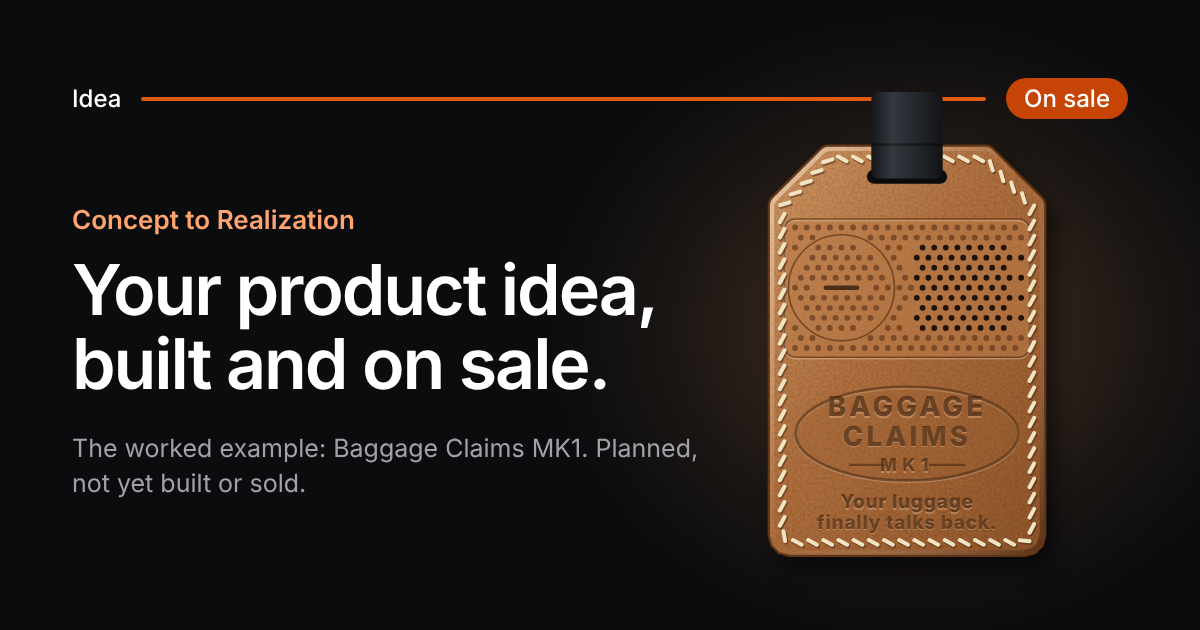
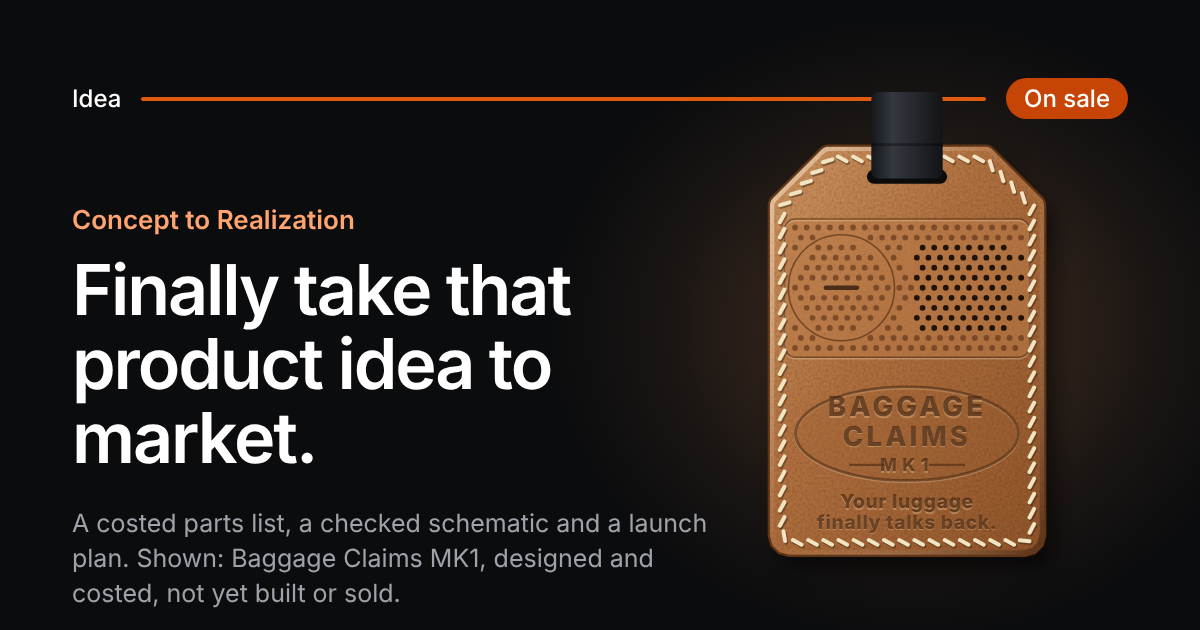
Welcome page copy, second version: sell the process, the example is the proof
The owner asked (23 Nov) for copy that sells the full process to a first-time
visitor. Words only: blocks, ids, anchors, data-track values, forms and viewers
are unchanged.

- Hero: "Finally take that product idea to market." with a subhead that names
  what you get, the control, and the one real speed proof (one weekend).
- Each block opens with the visitor's question and answers it first.
- Proof: the weekend story with the example's live part and wire counts, and
  the bad news the costing gave (every channel loses at prototype cost).
- The line under every form: no payment, and what happens next.
- "Workbench" becomes "the app" on the page. Meta, social card and og.png redone.
- Tests: the two headings the e2e spec names; the proof lead joins the banned-word check.

Claude-Session: https://claude.ai/code/session_01PAzAzb9LggakEVmwjQHoa6

diff --git a/src/components/welcome/content.ts b/src/components/welcome/content.ts
@@ -4,7 +4,9 @@
  * repository: no user counts, no benchmarks, no time savings.
  *
  * The welcome page is the early-access page (owner, 22 Nov): one action, "Claim an early-access place", nine
- * blocks, and nothing about running the software yourself. Its words are HERO, PROBLEM, GET, MECHANISM, PROOF,
+ * blocks, and nothing about running the software yourself. The words were rewritten on 23 Nov (owner: sell the full
+ * process, the example is only the proof; docs/research/landing/copy-v2-2026-11-23.md): each block opens with the
+ * visitor's question and answers it in its first sentence. Its words are HERO, PROBLEM, GET, MECHANISM, PROOF,
  * PRICING, BUILDER, questions(), CLOSING and FOOTER. The plans and their prices are the plan catalogue's
  * (src/lib/admin/planSchema.ts), never typed here.
  */
@@ -16,20 +18,20 @@ export const ACTION = { label: "Claim an early-access place", short: "Early acce
 
 export const HERO = {
   eyebrow: "For makers, first-time founders and small product firms",
-  title: "Your product idea, built and on sale.",
-  sub: "One workbench carries a physical product from a one-line idea to a costed prototype, a launch plan and a marketplace listing. AI drafts each stage from the last. You decide what stands.",
+  title: "Finally take that product idea to market.",
+  sub: "Type the idea in one line. Get a costed parts list, a checked schematic, your margin on each sales channel and a launch plan. AI drafts every stage and you approve it, so you know the numbers before you spend a dollar. Our first idea got that far in one weekend.",
   secondary: "See the worked example",
 };
 
 export const META = {
-  title: "Concept to Realization: take a product idea to a prototype, a launch and a listing",
+  title: "Concept to Realization: take your product idea to market",
   description:
-    "One workbench for makers, first-time founders and small product firms: AI drafts each stage from the last, from brief to parts list, print files, unit cost, ads and a marketplace listing, and you decide. Early access is limited to 50 places.",
+    "Type a product idea in one line. Get a costed parts list, a checked schematic, your margin by sales channel and a launch plan. 50 early-access places, no payment.",
 };
 
 /** The problem, as before and after pairs. The "after" side is what the app does, word for word from the guides. */
 export const PROBLEM = {
-  title: "One product, ten tools that never talk to each other",
+  title: "Why is the idea still in the drawer?",
   before: "Elsewhere",
   after: "Here",
   /** the pairs the welcome page shows, by index */
@@ -37,23 +39,27 @@ export const PROBLEM = {
   /** the tools the lead names, as the block's picture shows them */
   tools: ["Notes app", "Parts spreadsheet", "CAD file", "Schematic tool", "Slicer", "Cost sheet", "Task board", "Ad manager"],
   art: "Elsewhere: a notes app, a parts spreadsheet, a CAD file, a schematic tool, a slicer, a cost sheet, a task board and an ad manager, each on its own. Here: one line from the idea to the sale, with the seven stages on it.",
-  lead: "A hardware idea usually lives in a notes app, a parts spreadsheet, a CAD file, a schematic tool, a slicer, a cost sheet, a task board and an ad manager. Change one part and the wiring, the enclosure, the cost and the launch copy go stale without telling you.",
+  lead: "Because nothing shows you the way from here to a product. The idea lives in a notes app, a parts spreadsheet, a drawing tool and a dozen browser tabs. None of them says what it would cost to make, or whether it would earn money. So you spend first and find out later, or you wait.",
   pairs: [
     {
-      before: "The parts list is a spreadsheet nothing else reads.",
-      after: "The parts list drives the schematic, the 3D model, the enclosure, the build sheet and the unit cost.",
+      before: "You find out what it costs after you have paid for it.",
+      after: "You see the unit cost at each batch size, and what each sales channel leaves you, before you order a part.",
     },
     {
       before: "A guessed price quietly becomes a fact.",
       after: "A part with no price is named and left out of the total. It is never counted as zero.",
     },
     {
-      before: "You find out what a change broke when the build fails.",
-      after: "Change a part, a requirement or a decision and a notice lists the rows it affects.",
+      before: "You learn what a change broke when the build fails.",
+      after: "Change a part, a requirement or a decision and a notice lists everything that depends on it.",
     },
     {
       before: "An AI tool writes confident copy with numbers nobody checked.",
-      after: "A marketing line with a number or a word like \"best\" needs a linked proof row before it can be approved.",
+      after: "Every claim is listed with its source and marked verified or unverified. An ad line with a number needs proof before you can approve it.",
+    },
+    {
+      before: "The parts list is a spreadsheet nothing else reads.",
+      after: "The parts list drives the schematic, the 3D model, the enclosure, the build sheet and the unit cost.",
     },
     {
       before: "Nobody can say what to do next.",
@@ -146,8 +152,8 @@ export const FEATURES: Feature[] = [
 ];
 
 export const CLOSING = {
-  title: "Ready to get your idea out?",
-  text: "An idea that is not pursued is never realised. Put yours through the same stages as the example: AI drafts, you decide, and the next step is always named.",
+  title: "What would your idea cost to make?",
+  text: "Find out before you spend on it. Claim one of the 50 early-access places with an email address and one line about what you want to make. You get the same seven stages our own idea went through, and the numbers for yours.",
 };
 
 export const FOOTER = {
@@ -178,6 +184,13 @@ export const EXAMPLE = {
   solderSteps: 20,
   build: "7 h 10 min",
   voicePacks: ["Family", "Salty", "New Yorker"],
+  /**
+   * What the example's economics said, as the cost view of "What you get" works it out from the Rev D rows
+   * (seed/concepts/baggage-claims/content/2026-11-22-revD-2.json: $30.01 for one unit, $17.67 a unit at 100, parts
+   * and filament only) against the channels' nets (src/lib/seed.ts: own site $21.95, wholesale $14.50; the dearest
+   * net of the five, $21.95, is under $30.01). $21.95 - $17.67 = $4.28; $17.67 - $14.50 = $3.17. Estimates, as the rows say.
+   */
+  badNews: { costAtOne: "$30.01", ownSiteLeaves: "$4" },
 } as const;
 
 /**
@@ -189,14 +202,14 @@ export const ENGINEERING = {
   title: "Make it: the engineering views",
   tabs: { model: "3D", schematic: "Schematic", layout: "Physical layout", enclosure: "Enclosure and print", bom: "Parts list", build: "Build sheet" },
   loading: "Loading the view",
-  badge: "Live views, in the workbench's dark theme",
+  badge: "Live views, in the app's dark theme",
   still: "A still of the 3D view; the live one loads as you reach it.",
   noscript: "Script is off, so the views cannot run. Here are stills of the schematic and the enclosure, the whole parts list and the first soldering steps.",
   hintMouse: "Drag to turn. Ctrl or Cmd + wheel to zoom.",
   hintTouch: "Tap, then drag to turn. Pinch to zoom.",
   tap: "Tap to explore",
   panTouch: "Tap, then drag to pan. Pinch or the buttons zoom.",
-  note: "As the workbench says of this example, the internal layout is illustrative, and sizes marked typical are common sizes for that kind of part, not measured.",
+  note: "As the app says of this example, the internal layout is illustrative, and sizes marked typical are common sizes for that kind of part, not measured.",
   model: {
     modes: { translucent: "Translucent", solid: "Solid", wireframe: "Wireframe", exploded: "Exploded" },
     wiresHidden: "The solid lid is closed, so the wires and the labels of the parts inside are not drawn.",
@@ -234,7 +247,7 @@ export const ENGINEERING = {
   build: {
     heading: "The first soldering steps",
     hint: "The order to solder in, from the schematic's wires.",
-    more: (n: number) => `And ${n} more, in the same order, on the build sheet in the workbench.`,
+    more: (n: number) => `And ${n} more, in the same order, on the build sheet in the app.`,
   },
 };
 
@@ -280,17 +293,17 @@ export const HERO_STAGE = {
     variants: (n: number) => `1 of ${n} variants`,
     net: (net: string) => `${net} net of fees`,
   },
-  caption: `The worked example: ${EXAMPLE.name}, shown in its own rows as they stand today. It is planned, not yet built or sold.`,
+  caption: `The worked example: ${EXAMPLE.name}, shown in its own rows as they stand today. It is designed and costed, not yet built or sold.`,
 };
 
 /** "What you get": the thing you walk away with at each stage. Every line is a section of the app today (src/lib/menu.ts). */
 export const GET = {
   eyebrow: "What you get",
   title: "What do I end up with?",
-  lead: "Something you can use at the end of each of seven stages: a working document, a file or a figure. The next stage is built on it. Pick a stage to see what it leaves you with.",
+  lead: "Something you can use at the end of every stage. Seven stages leave you a brief, sourced answers, a costed parts list, print files, your margin on each channel, ads and a marketplace listing. Each is built from the one before. Pick a stage to see it.",
   note: `Each output shown is one of ${EXAMPLE.name}'s own rows, the example this page follows.`,
   label: "The seven stages, in two lanes",
-  holds: "In the workbench this stage holds",
+  holds: "In the app this stage holds",
   more: (n: number) => `and ${n} more`,
   see: { engineering: "See it running below", market: "See it open below" },
   groups: [
@@ -310,7 +323,7 @@ export const GET = {
       title: "Sell it",
       sub: "From a unit cost to a listing",
       items: [
-        { n: "05", stage: "Production", art: "cost", get: "A unit cost and a margin per channel", also: "Batch plans with the cash each needs, suppliers, and a compliance checklist for your own checking." },
+        { n: "05", stage: "Production", art: "cost", get: "Your unit cost, and your margin on each channel", also: "Batch plans with the cash each needs, suppliers, and a compliance checklist for your own checking." },
         { n: "06", stage: "Marketing", art: "ad", get: "Ads written to each channel's limits", also: "Positioning with its proof, a brand kit, a landing page, social posts and a dated launch plan." },
         { n: "07", stage: "Sales", art: "channel", get: "A listing ready for the marketplace", also: "Channels with their fees, reviews turned into requirements, and a sales monitor." },
       ],
@@ -477,12 +490,12 @@ export const GET_VIEWS = {
  * saving, percentage or "faster" is claimed, because none has been measured.
  */
 export const MECHANISM = {
-  title: "AI drafts each stage. You approve it. The next stage starts from there.",
+  title: "How does it work? Three steps, seven times: AI drafts a stage, you approve it, the next stage starts from there.",
   guarantees: [
-    { title: "Publishing and spending wait for you", text: "A post, a message or a purchase goes out only when you confirm it in the app. The app places no orders." },
-    { title: "Numbers come from your rows", text: "A missing price is named and left out of the total. Print time and material come from the slicer's own output." },
-    { title: "Claims need proof", text: "A marketing line with a number or a superlative needs a linked proof row before it can be approved." },
-    { title: "Changes are recorded", text: "Each concept keeps its activity, and the audit log is read only." },
+    { title: "Nothing is posted or bought without you", text: "A post, a message or a purchase goes out only when you confirm it in the app. The app places no orders." },
+    { title: "No number is made up", text: "A missing price is named and left out of the total. Print time and material come from the slicer's own output." },
+    { title: "Every claim shows its source", text: "Each claim is listed with where it came from and marked verified or unverified. An ad line with a number or a superlative needs linked proof before you can approve it." },
+    { title: "You see what a change touches", text: "Change a part, a requirement or a decision and a notice lists everything that depends on it. Every change is kept in a read-only log." },
   ],
 };
 
@@ -493,18 +506,20 @@ export const MECHANISM = {
  */
 export const PROOF = {
   eyebrow: `The worked example: ${EXAMPLE.name}`,
-  title: "One real product, taken through it",
-  lead: `${EXAMPLE.name} is ${EXAMPLE.what}, and the first idea put through the workbench. These are its own rows in the workbench's own views: the engineering under Make it, marketing and sales under Sell it. Where the example has nothing yet, the view says so.`,
+  title: "Has it worked on a real idea?",
+  /** the counts are the example's own rows, handed in by the page, so the sentence cannot drift from the views under it */
+  lead: (parts: number, wires: number) =>
+    `Yes, on ours. We had a joke idea on the way to an airport: a luggage tag that heckles its trip. Over one weekend, one of us took that line to a costed list of ${parts} parts and a checked ${wires}-wire schematic. Then a 3D model, margins for five sales channels and a launch plan. This app was built to do it. Its own data is below.`,
   switch: "Which half of the example to show",
   groups: {
     make: { label: "Make it", sub: "Six engineering views, live: turn the model, pan the schematic, watch the case print." },
     sell: { label: "Sell it", sub: "Seven marketing and sales views, built on the same rows as the engineering." },
   },
   noscript: "Script is off, so the switch cannot change. The Sell it views are set out below.",
-  enclosureNote: "The 3D view draws the enclosure to the outline of the example's own case, which is designed by hand. Enclosure and print shows the box the workbench generates around the same parts.",
+  enclosureNote: "The 3D view draws the enclosure to the outline of the example's own case, which is designed by hand. Enclosure and print shows the box the app generates around the same parts.",
   status: {
-    title: "Where does the example stand today?",
-    lead: "Each stage ends in a gate of checks. These counts are worked out by the workbench's own rules on the example's rows. It is designed and costed, not yet manufactured or sold.",
+    title: "What did it tell us?",
+    lead: `What we did not want to hear, before we spent a dollar. At prototype cost, ${EXAMPLE.badNews.costAtOne} a unit, all five channels lose money. At 100 units our own site leaves about ${EXAMPLE.badNews.ownSiteLeaves} a unit and wholesale still loses. So the tag is designed and costed, not yet built or sold. Here are its checks, stage by stage.`,
     label: "The seven stages of the example, each with its checks met",
     count: (met: number, total: number) => `${met} of ${total} checks met`,
     open: (n: number) => `What is still open (${n} ${n === 1 ? "check" : "checks"})`,
@@ -527,7 +542,7 @@ export const MARKET = {
   positioning: {
     path: "/s/marketing/positioning",
     lineTitle: "The line",
-    lineHint: "The workbench composes one sentence from six parts. The brackets are the parts the example has not filled.",
+    lineHint: "The app composes one sentence from six parts. The brackets are the parts the example has not filled.",
     notesTitle: "What the example holds",
     messagesTitle: "Three messages, each tied to proof",
     messagesHint: "A message can be approved only when it links to something the concept holds. This is what a link to the example's rows would count as today, by the app's own check.",
@@ -575,7 +590,7 @@ export const MARKET = {
     foot: "Each step is due a set number of days before or after launch day.",
     needs: (gate: string) => `needs the ${gate} gate`,
     steps: (n: number) => `${n} steps`,
-    honest: (launches: number) => (launches === 0 ? `${EXAMPLE.name} has no launch date yet, so no step has a due date. Set one in the workbench and every step is dated, counted back from it. Move the date and every step moves.` : `${EXAMPLE.name} has ${launches} launch planned.`),
+    honest: (launches: number) => (launches === 0 ? `${EXAMPLE.name} has no launch date yet, so no step has a due date. Set one in the app and every step is dated, counted back from it. Move the date and every step moves.` : `${EXAMPLE.name} has ${launches} launch planned.`),
   },
   listing: {
     path: "/s/sales/listing",
@@ -606,15 +621,15 @@ export const MARKET = {
 export const PRICING = {
   eyebrow: "Pricing",
   title: "What does it cost?",
-  lead: "Early access is limited to 50 people and takes no payment.",
-  plansLead: "After those places are gone, the workbench is by monthly subscription, on one of the plans below.",
+  lead: "Nothing is charged during early access, and no card is asked for. There are 50 places.",
+  plansLead: "After those are gone it is a monthly subscription, on one of the two plans below.",
   offerTitle: "Early access: 50 places",
-  offerText: "Give an email address and one line about what you want to make. The count beside the form is the real number of places left.",
+  offerText: "Give an email address and one line about what you want to make. Workspaces open in the order places were claimed. The count beside the form is the real number of places left.",
   plansTitle: "After early access",
   includes: "Includes",
   per: "a month",
   first: "Early-access members are asked first when paid plans open.",
-  questionsTitle: "What else should I ask?",
+  questionsTitle: "What might stop you?",
 };
 
 /** "Who built it": shown only when the setting BUILDER.setting holds a name and a text (builder.ts). */
@@ -632,29 +647,29 @@ type Question = { q: string; a: string };
  */
 export function questions(plans: { name: string; price: string; per: string }[]): Question[] {
   const prices = plans.map((p) => `${p.name} at ${p.price} ${p.per}`).join(" and ");
-  const then = prices ? ` After the 50 early-access places, the workbench is by subscription: ${prices}.` : "";
+  const then = prices ? ` After the 50 early-access places it is a subscription: ${prices}.` : "";
   return [
-    { q: "What does it cost?", a: `Early access takes no payment.${then} ${PRICING.first}` },
+    { q: "What does it cost?", a: `Nothing during early access, and no card is asked for.${then} ${PRICING.first}` },
     {
-      q: "What is early access, and why 50?",
-      a: `Early access is a place among the first 50 people to put an idea of their own through the workbench. You claim one with an email address and one line about what you want to make. Fifty is a fixed limit, and the count on this page is the real number of places left.${prices ? " When they are gone, the way in is a paid plan." : ""}`,
+      q: "Is the limit of 50 real?",
+      a: `Yes. Fifty is a fixed limit, and the count on this page is read from our database each time the page loads. A place puts you among the first 50 people to take an idea of their own through the seven stages. When the places are gone the form becomes a waiting list${prices ? ", and the way in is a paid plan" : ""}.`,
     },
     { q: "Who can see my idea?", a: "Your ideas are kept in your own workspace and are not shared with others." },
     {
-      q: "Do I need electronics or CAD skills?",
-      a: "No CAD skills: parts are drawn as boxes and cylinders from the sizes you enter, or from an STL or STEP file you attach, and the enclosure is generated around them. Some electronics knowledge helps, because you approve every draft and build the prototype yourself. The electrical checks list what they find, worst first, and the build sheet gives the order to solder in.",
+      q: "I am not an engineer. Can I still use it?",
+      a: "For the drawing, yes. Parts are drawn from the sizes you enter, or from an STL or STEP file, and the enclosure is generated around them, so you need no CAD skills. For electronics, some knowledge helps: you approve every draft and you build the prototype yourself. The electrical checks list what they find, worst first, and the build sheet gives the order to solder in.",
     },
     {
-      q: "Is it only for electronics?",
-      a: "No. A concept is one of three kinds: electronics in an enclosure, a printed part, or a physical product with no electronics. The sections that do not apply, such as the schematic for a printed part, are hidden.",
+      q: "My product has no electronics. Is this for me?",
+      a: "Yes. A concept is one of three kinds: electronics in an enclosure, a printed part, or a physical product with no electronics. The sections that do not apply, such as the schematic for a printed part, are hidden.",
     },
     {
-      q: "Does the AI make things up?",
-      a: "It drafts, and a draft counts for nothing until you approve it. Every draft is kept with the rows it came from. A part with no price is named and left out of the total, never counted as zero. A marketing line with a number or a superlative needs a linked proof row before it can be approved.",
+      q: "Can I trust what the AI writes?",
+      a: "Trust it as a draft, never as a fact. A draft counts for nothing until you approve it. Every claim is listed with its source and marked verified or unverified. A part with no price is named and left out of the total, never counted as zero. On our own idea it showed that every channel lost money at prototype cost.",
     },
     {
       q: "What is not finished yet?",
-      a: `Connections to outside services (Amazon, X, Instagram and printers) are built to each service's published documentation and tested against stand-ins; they have not yet been run on live accounts. Team workspaces open after early access. The worked example, ${EXAMPLE.name}, is designed and costed, not yet manufactured or sold.`,
+      a: `Connections to outside services (Amazon, X, Instagram and printers) are built to each service's published documentation and tested against stand-ins; they have not yet been run on live accounts. Team workspaces open after early access. Our own example, ${EXAMPLE.name}, is designed and costed, not yet built or sold. And nobody can promise a product will sell. This shows you the numbers so you can decide.`,
     },
   ];
 }

diff --git a/tests/e2e/signed-out.spec.ts b/tests/e2e/signed-out.spec.ts
@@ -29,7 +29,7 @@ test("the welcome page has one action, early access, in reach from the header, a
   await expect(page).toHaveURL(`${baseURL}/welcome#early-access-hero`);
   // the jump lands on the form itself, clear of the sticky header
   await expect(page.locator("#early-access-hero").getByLabel(/^Email/)).toBeInViewport();
-  await expect(page.getByRole("heading", { level: 1, name: "Your product idea, built and on sale." })).toHaveCount(1);
+  await expect(page.getByRole("heading", { level: 1, name: "Finally take that product idea to market." })).toHaveCount(1);
   for (const track of ["cta:get", "cta:proof", "plan:maker", "plan:studio"]) await expect(page.locator(`a[data-track="${track}"]`)).toHaveText("Claim an early-access place");
   // every action is a link to a form that is on the page
   for (const href of await page.locator('a[href^="#early-access-"]').evaluateAll((as) => as.map((a) => a.getAttribute("href")!))) await expect(page.locator(href)).toHaveCount(1);
@@ -37,7 +37,7 @@ test("the welcome page has one action, early access, in reach from the header, a
   for (const id of ["hero", "origin", "problem", "get", "proof", "pricing", "faq", "close"]) await expect(page.locator(`section#${id}`)).toHaveCount(1);
   await page.getByRole("link", { name: "See the worked example" }).click();
   await expect(page).toHaveURL(`${baseURL}/welcome#proof`);
-  await expect(page.getByRole("heading", { level: 2, name: "One real product, taken through it" })).toBeInViewport();
+  await expect(page.getByRole("heading", { level: 2, name: "Has it worked on a real idea?" })).toBeInViewport();
   // pricing: Maker and Studio, each with a price; no card that costs nothing and none for running it yourself
   const pricing = page.locator("section#pricing");
   await expect(pricing.getByRole("heading", { level: 4 })).toHaveText(["Maker", "Studio"]);

diff --git a/src/app/welcome/page.tsx b/src/app/welcome/page.tsx
@@ -35,7 +35,7 @@ export const generateMetadata = () => publicPageMetadata({ title: META.title, de
  *  0. Header, sticky: the brand, four section links from 1024 px, Sign in, and the action at every width.
  *  1. hero     The proposition, the early-access form (EarlyAccess) and the transformation itself (HeroFlow).
  *  2. origin   Where the first idea came from: the film (OriginScenes), which loads only as it nears the window.
- *  3. problem  One product, ten tools: three before-and-after pairs.
+ *  3. problem  Why the idea is still in the drawer: three before-and-after pairs.
  *  4. get      What each stage leaves you with (WhatYouGet), and how: AI drafts, you approve; the four guarantees.
  *  5. proof    One showcase of the example, Make it and Sell it (Showcase), then where it stands (StageStatus).
  *  6. pricing  The early-access offer, then the paid plans of the catalogue in force (Pricing.tsx).
@@ -210,7 +210,7 @@ export default async function WelcomePage() {
             <div className={WRAP}>
               <p className={EYEBROW}>{PROOF.eyebrow}</p>
               <h2 id="proof-title" className={H2}>{PROOF.title}</h2>
-              <p className={LEAD}>{PROOF.lead}</p>
+              <p className={LEAD}>{PROOF.lead(example.parts.length, example.wires.length)}</p>
             </div>
             {/* the stage runs wider than the text column; the showcase lays both out */}
             <div className="mt-8">

diff --git a/src/components/welcome/scenes/scenes.ts b/src/components/welcome/scenes/scenes.ts
@@ -127,12 +127,12 @@ export const SLATE_MS = 900;
 /** The owner's first note, quoted exactly where it is quoted. */
 export const ORIGIN = {
   eyebrow: "It started as a joke: the worked example, Baggage Claims MK1",
-  title: "Where did the first idea come from?",
+  title: "Is your idea good enough? Ours was a joke.",
   body: [
     "The first note asked for “a quick gag and potential quick buck”: a device on the luggage that is “the comedic relief of all the airport luggage moments of absurdity”.",
     "The lines were already in it: when the bag is weighed and it is too heavy, “the luggage says ‘are you calling me fat’”.",
   ],
-  bridge: "This is the idea the rest of this page carries from concept to market.",
+  bridge: "One of us took that joke to a costed design in one weekend. The rest of this page shows what came out.",
   chapters: "The circumstances",
   stageLabel: "A short film in six scenes, silent until you turn the sound on: what happens to the suitcase, and what it says back.",
   sensed: "SENSED",

diff --git a/src/components/welcome/meta.ts b/src/components/welcome/meta.ts
@@ -1,5 +1,6 @@
 import type { Metadata } from "next";
 import { headers } from "next/headers";
+import { HERO } from "./content";
 
 /**
  * The address this page was asked for, as the base for the Open Graph image's absolute URL. The app has no
@@ -17,7 +18,7 @@ async function siteBase(): Promise<URL> {
 
 /** Title, description, canonical address and Open Graph and Twitter cards for one public page. */
 export async function publicPageMetadata(o: { title: string; description: string; path: string }): Promise<Metadata> {
-  const image = { url: "/landing/og.png", width: 1200, height: 630, alt: "A saddle-tan luggage tag, the worked example, hanging on a line that runs from Idea to On sale, beside the words: Your product idea, built and on sale." };
+  const image = { url: "/landing/og.png", width: 1200, height: 630, alt: `A saddle-tan luggage tag, the worked example, hanging on a line that runs from Idea to On sale, beside the words: ${HERO.title}` };
   return {
     metadataBase: await siteBase(),
     title: o.title,

diff --git a/src/components/welcome/brandArt.tsx b/src/components/welcome/brandArt.tsx
@@ -97,7 +97,7 @@ export function SocialCard() {
       <div style={{ position: "absolute", left: 72, top: 204, width: 660 }}>
         <div style={{ fontSize: 26, fontWeight: 600, color: "#ffa370" }}>{PRODUCT}</div>
         <div style={{ marginTop: 18, fontSize: 70, fontWeight: 600, lineHeight: 1.06, letterSpacing: "-0.03em" }}>{HERO.title}</div>
-        <div style={{ marginTop: 30, fontSize: 25, lineHeight: 1.4, color: "#a1a1aa" }}>{`The worked example: ${EXAMPLE.name}. Planned, not yet built or sold.`}</div>
+        <div style={{ marginTop: 30, fontSize: 25, lineHeight: 1.4, color: "#a1a1aa" }}>{`A costed parts list, a checked schematic and a launch plan. Shown: ${EXAMPLE.name}, designed and costed, not yet built or sold.`}</div>
       </div>
       <div style={{ position: "absolute", left: 742, top: 92, width: 330 }}>
         <TagArt strap={12} margin={6} className="tag" />

diff --git a/tests/welcome/early-access-page.test.ts b/tests/welcome/early-access-page.test.ts
@@ -10,7 +10,7 @@ const strings = (v: unknown): string[] => (typeof v === "string" ? [v] : Array.i
 
 describe("the welcome page's words", () => {
   const plans = paidPlans(levelsOf(builtInCatalogue()).levels, true);
-  const words = strings([ACTION, HERO, META, NAV, PROBLEM, GET, MECHANISM, PROOF, PRICING, CLOSING, FOOTER, questions(plans), PROOF.status.count(1, 2), PROOF.status.open(3)]).join("\n");
+  const words = strings([ACTION, HERO, META, NAV, PROBLEM, GET, MECHANISM, PROOF, PRICING, CLOSING, FOOTER, questions(plans), PROOF.lead(34, 52), PROOF.status.count(1, 2), PROOF.status.open(3)]).join("\n");
 
   it.each(["free", "faster", "demo", "github", "open source", "open-source", "self-host", "docker", "apache", "being built", "run it yourself", "request access"])("never say %s", (word) => {
     expect(words.toLowerCase()).not.toContain(word);

diff --git a/src/components/welcome/early/EarlyAccessForm.tsx b/src/components/welcome/early/EarlyAccessForm.tsx
@@ -106,7 +106,7 @@ export function EarlyAccessForm({ placement, full, compact }: { placement: Place
         <Button type="submit" size="lg" disabled={sending} data-track={`cta:early-${placement}`}>
           {sending ? "Sending…" : action}
         </Button>
-        {!compact ? <p className="text-xs text-muted">Early access takes no payment.</p> : null}
+        <p className="text-xs text-muted">No payment. We write to you when your workspace opens.</p>
       </div>
     </form>
   );
